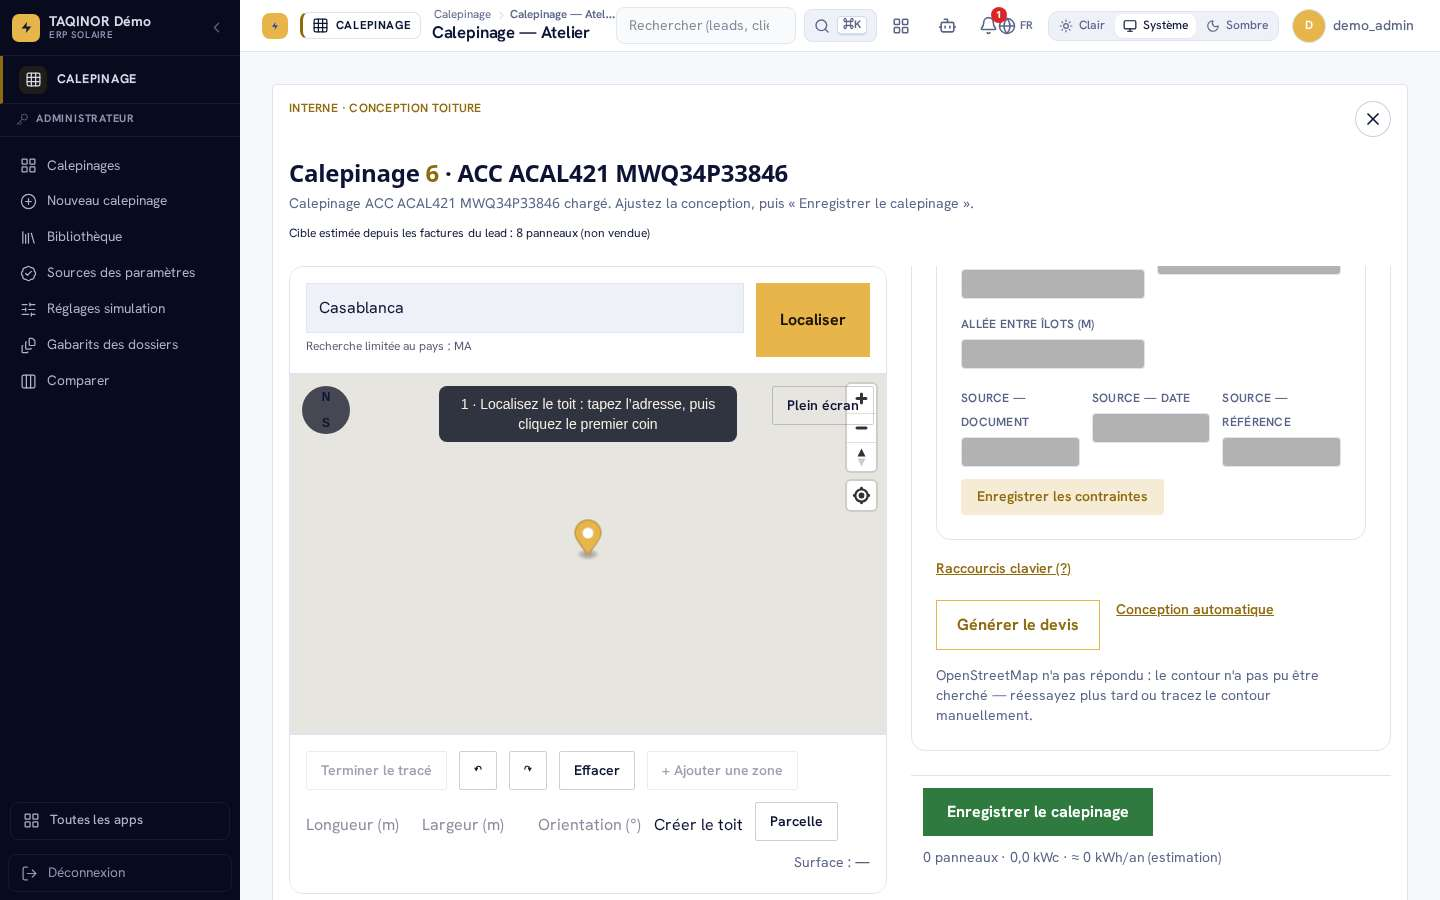
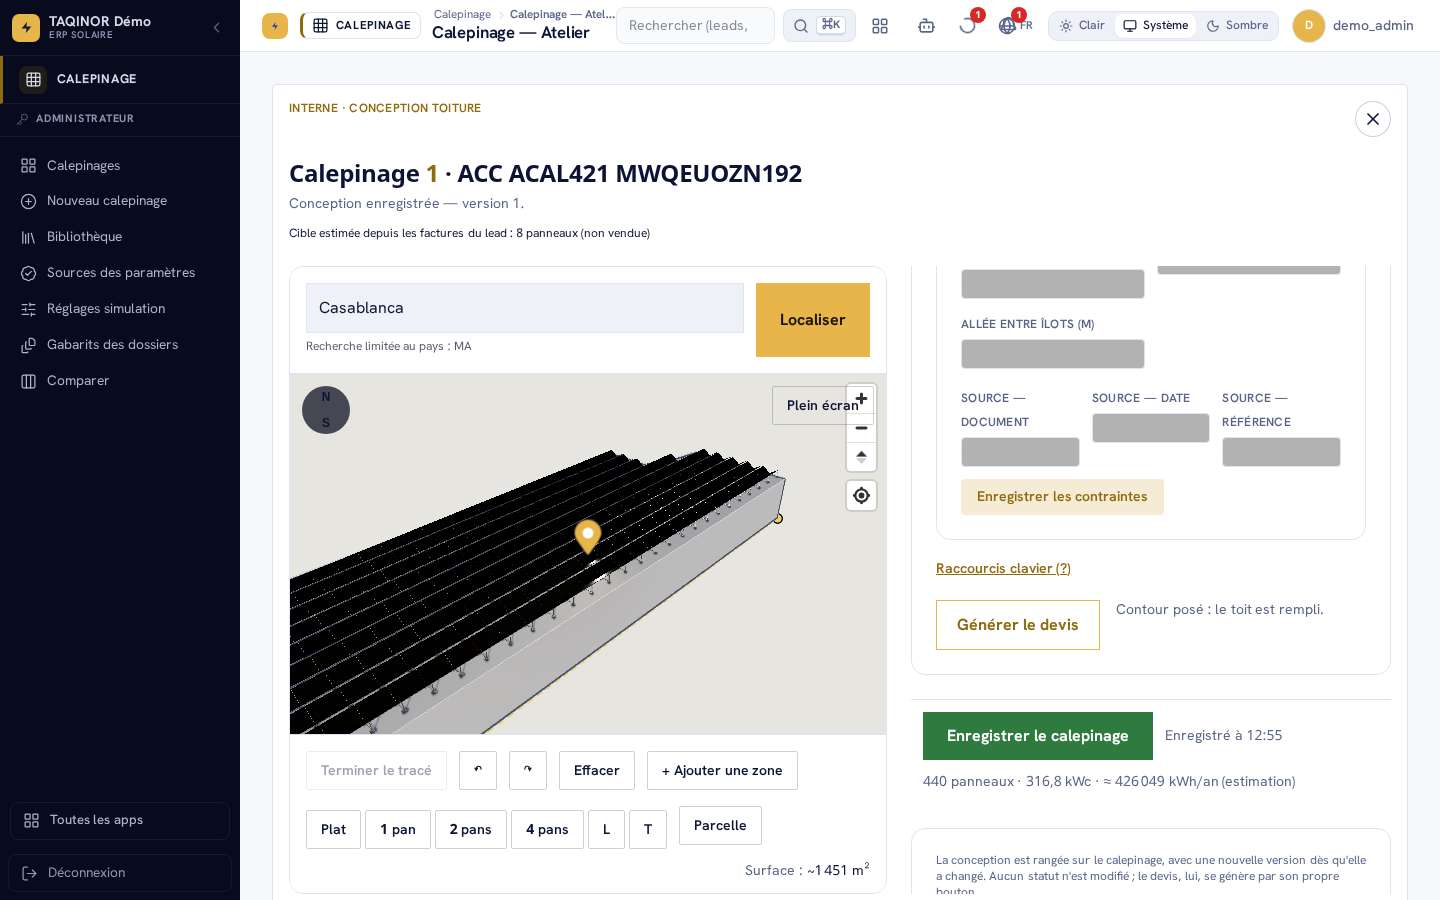
ACAL421 cochée : enregistrement PASS 2026-11-21-51c1fdb5e (run 44905821481, tâche de fond D-ACAL-35)

diff --git a/docs/plans/PLAN_AUDIT_CALEPINAGE.md b/docs/plans/PLAN_AUDIT_CALEPINAGE.md
@@ -755,7 +755,7 @@ Contre-visite de clôture n° 2 du groupe ACAL (dossier `docs/audits/2026-11-01-
 
 - [x] ACAL420 — **Faire dire le prochain geste sur la carte elle-même avant tout tracé : une carte d'aide flottante « Localisez le toit » puis « Cliquez les coins » ; fini quand un atelier vierge n'est plus muet** : Constat : C-ACAL-L5-420 (C18, S3, STATIQUE (lecture du 20/11 sur e9b08b57e)) — l'atelier vierge ne parle que par une ligne de statut (`rp9-status`, `text-sm text-lune-faint`, `BuilderDom.jsx`) placée SOUS la carte et la barre d'outils (« Cherchez votre adresse, puis cliquez les coins de votre toit », `roof-tool-pro11.ts::setStatus`, appels l.1787 et l.2485) ; les sections de réglage restent masquées tant que le contour n'est pas fermé ; référence : OpenSolar (Auto Design guidé en 4 étapes), d'après r1/c2 ; Priorité : P2. Given un atelier sans sommet posé When il s'ouvre Then une carte posée sur la carte dit « 1 · Localisez le toit : tapez l'adresse, puis cliquez le premier coin » ; après un ou deux sommets « 2 · Un clic par coin, double-clic pour fermer le contour » ; contour fermé : la carte disparaît (le statut prend le relais) ; elle ne bloque aucun clic (`pointer-events: none`) et reste `aria-hidden` (le statut `aria-live` est le canal des lecteurs d'écran). Persistance : n/a — état d'écran. Emplacement : fichier NEUF `apps/web/src/scripts/roofPro11/etatVide.ts` (div dans le conteneur de la carte, même patron que `#rp9-marquee`) mis à jour depuis `roof-tool-pro11.ts::setStatus` (≤ 6 l. nettes dans ce fichier de 4 354 l.). Code net : ≤ 50 l. neuves. Appelants : `setStatus` ← environ 25 sites de `roof-tool-pro11.ts` (grep) ; modes : aperçu public et atelier ERP, jamais capture publique (`captureBoot.ts` a son propre bandeau) ni visionneuse. Assertions existantes : `apps/web/tests/userJourneyPro11.test.ts` (textes de `rp9-status`) reste vert, l'id `rp9-etat-vide` n'est dans aucune liste d'ids figée (l.103-110). Jumeaux : les messages de `setStatus` restent la voix des lecteurs d'écran ; aucune autre carte d'aide dans le module. Autres modes : la capture publique (`captureBoot.ts`) et la visionneuse client (`viewerFullBoot.ts`) démarrent sans ce module et ne reçoivent rien. Listes figées : aucune. Contrat partagé : n/a — apps/web seul. Test rouge d'abord : `apps/web/tests/userJourneyPro11.test.ts` (nouveau cas « l'état vide dit le prochain geste, puis s'efface à la fermeture du contour ») ; mutant : ne pas rafraîchir à la pose d'un sommet ⇒ échec. Preuve en direct : atelier vierge : carte « Localisez le toit » ; un clic : « Un clic par coin ». Hors périmètre : états vides propres à chaque étape du parcours guidé (lot ACAL392-409), capture publique. (gen manuel e9b08b5) Budget C20 (roof-tool-pro11.ts, fichier mur) : lignes nettes attendues ≤ 50 — repris du texte « ≤ 50 l. neuves ». Files: `apps/web/src/scripts/roofPro11/etatVide.ts`, `apps/web/src/scripts/roof-tool-pro11.ts`, `apps/web/tests/userJourneyPro11.test.ts` (ROUTINE) (@after: ACAL383) (@lane: calepinage/atelier-web) (@model: sonnet)
 
-- [BLOCKED: code livré le 2026-11-21 sur dev-all-acal-l5 ; preuve en direct due à ACAL490 (acceptation de la campagne)] ACAL421 — **Ajouter « Conception automatique » à l'atelier d'un calepinage lié à un lead épinglé : un clic pose le contour du bâtiment (OSM) et l'optimiseur remplit le toit ; fini quand le toit est rempli sans rien tracer** : Constat : C-ACAL-L5-421 (C4, S3, STATIQUE (lecture du 20/11 sur e9b08b57e)) — la route d'emprise est servie (`backend/django_core/apps/crm/roof_views.py::lead_roof_footprint`, `GET crm/leads/<id>/roof-footprint/`, client `frontend/src/api/crmApi.js::getRoofFootprint`) mais `frontend/src/features/calepinage/atelier/useAtelierBoot.js` ne l'appelle que dans le boot du mode lead (l.190), pas dans `bootCalepinage` ; et le builder sait poser un contour géoréférencé en pan neuf qui re-pave (`apps/web/src/scripts/roof-tool-pro11.ts` → `ajouterPanDepuisContour`, ACAL71, seul appelant `PlanImporteCalage.jsx`) : aucun geste ne relie les deux ; référence : Huawei SmartDesign (pose automatique sans visite) et OpenSolar Auto Design (4 étapes), d'après r1/c2 ; Priorité : P2. Given un calepinage lié à un lead épinglé, sans pan tracé, droits d'écriture When « Conception automatique » Then l'emprise est lue, le contour (conversion `{lat, lng}` → `[lng, lat]`, différente de celle du boot lead) devient le pan, le pan vide de départ n'est pas gardé et l'optimiseur pose le maximum ; sans épingle, sans emprise ou en échec réseau : le message du serveur (`message`) s'affiche, aucun pan créé ; un pan déjà tracé n'est jamais écrasé (bouton absent) ; rien n'est enregistré avant « Enregistrer le calepinage ». Persistance : n/a — rien tant que l'utilisateur n'enregistre pas ; le pan sort ensuite par `serializeLayout`. Emplacement : fichier NEUF `frontend/src/features/calepinage/atelier/conceptionAuto.js` (lecture de l'emprise, conversion, appel) ; bouton monté dans `frontend/src/features/calepinage/AtelierPanneaux.jsx::AtelierPanneaux` (ATTEIGNABLE : composant monté dans l'écran parent déjà routé ; lead lu dans `contexte.calepinage.lead`) ; dans `roof-tool-pro11.ts`, `ajouterPanDepuisContour` occupe le pan actif quand il est vide (≤ 8 l.). Code net : ≤ 60 l. neuves en ERP. Appelants : `getRoofFootprint` ← `useAtelierBoot.js` (mode lead) seul ; modes : atelier ERP calepinage, absent en lecture seule et en mode lead. Assertions existantes : `apps/web/tests/estimatorRuntimePro10Pro11.test.ts` (« runtime ACAL71 » : le carré devient area-2 quand le pan actif est fermé) reste vert ; `frontend/src/features/calepinage/AtelierPanneaux.test.jsx` reste vert. Jumeaux : le boot du mode lead (`useAtelierBoot.js` l.182-232) fait déjà ce geste au démarrage avec des paires `[lat, lng]` ; la conversion neuve est testée à part. Autres modes : l'aperçu public et la capture n'ont pas ce bouton ; `ajouterPanDepuisContour` n'a d'autre appelant que `PlanImporteCalage.jsx` (ERP), son comportement sur pan fermé est inchangé. Listes figées : aucune. Contrat partagé : `backend/django_core/apps/calepinage/contract_samples/calepinage_empreinte_osm.json` (CALX106), lu par `backend/django_core/apps/calepinage/tests/test_calx106_contrat_empreinte_osm.py` et importé par le test frontend. Test rouge d'abord : `frontend/src/features/calepinage/AtelierPanneaux.test.jsx` (nouveau cas « conception automatique : emprise convertie en [lng, lat], pan vide remplacé, refus nommé sans emprise ») ; mutant : ne pas convertir lat/lng ⇒ sommets inversés ⇒ échec. Preuve en direct : calepinage d'un lead épinglé, « Conception automatique » : contour du bâtiment et toit rempli. Hors périmètre : chaînes, simulation (ACAL398), vision IA sur l'imagerie (GATED D-CALX-PAYANT), calepinage sans lead. Mur C20 : `apps/web/src/scripts/roof-tool-pro11.ts` lignes nettes attendues ≤ 4. (gen manuel e9b08b5) Files: `frontend/src/features/calepinage/atelier/conceptionAuto.js`, `frontend/src/features/calepinage/AtelierPanneaux.jsx`, `frontend/src/features/calepinage/AtelierPanneaux.test.jsx`, `apps/web/src/scripts/roof-tool-pro11.ts`, `apps/web/tests/estimatorRuntimePro10Pro11.test.ts` (ROUTINE) (@after: ACAL415) (@lane: calepinage/atelier-web) (@model: sonnet)
+- [x] ACAL421 — **Ajouter « Conception automatique » à l'atelier d'un calepinage lié à un lead épinglé : un clic pose le contour du bâtiment (OSM) et l'optimiseur remplit le toit ; fini quand le toit est rempli sans rien tracer** : Constat : C-ACAL-L5-421 (C4, S3, STATIQUE (lecture du 20/11 sur e9b08b57e)) — la route d'emprise est servie (`backend/django_core/apps/crm/roof_views.py::lead_roof_footprint`, `GET crm/leads/<id>/roof-footprint/`, client `frontend/src/api/crmApi.js::getRoofFootprint`) mais `frontend/src/features/calepinage/atelier/useAtelierBoot.js` ne l'appelle que dans le boot du mode lead (l.190), pas dans `bootCalepinage` ; et le builder sait poser un contour géoréférencé en pan neuf qui re-pave (`apps/web/src/scripts/roof-tool-pro11.ts` → `ajouterPanDepuisContour`, ACAL71, seul appelant `PlanImporteCalage.jsx`) : aucun geste ne relie les deux ; référence : Huawei SmartDesign (pose automatique sans visite) et OpenSolar Auto Design (4 étapes), d'après r1/c2 ; Priorité : P2. Given un calepinage lié à un lead épinglé, sans pan tracé, droits d'écriture When « Conception automatique » Then l'emprise est lue, le contour (conversion `{lat, lng}` → `[lng, lat]`, différente de celle du boot lead) devient le pan, le pan vide de départ n'est pas gardé et l'optimiseur pose le maximum ; sans épingle, sans emprise ou en échec réseau : le message du serveur (`message`) s'affiche, aucun pan créé ; un pan déjà tracé n'est jamais écrasé (bouton absent) ; rien n'est enregistré avant « Enregistrer le calepinage ». Persistance : n/a — rien tant que l'utilisateur n'enregistre pas ; le pan sort ensuite par `serializeLayout`. Emplacement : fichier NEUF `frontend/src/features/calepinage/atelier/conceptionAuto.js` (lecture de l'emprise, conversion, appel) ; bouton monté dans `frontend/src/features/calepinage/AtelierPanneaux.jsx::AtelierPanneaux` (ATTEIGNABLE : composant monté dans l'écran parent déjà routé ; lead lu dans `contexte.calepinage.lead`) ; dans `roof-tool-pro11.ts`, `ajouterPanDepuisContour` occupe le pan actif quand il est vide (≤ 8 l.). Code net : ≤ 60 l. neuves en ERP. Appelants : `getRoofFootprint` ← `useAtelierBoot.js` (mode lead) seul ; modes : atelier ERP calepinage, absent en lecture seule et en mode lead. Assertions existantes : `apps/web/tests/estimatorRuntimePro10Pro11.test.ts` (« runtime ACAL71 » : le carré devient area-2 quand le pan actif est fermé) reste vert ; `frontend/src/features/calepinage/AtelierPanneaux.test.jsx` reste vert. Jumeaux : le boot du mode lead (`useAtelierBoot.js` l.182-232) fait déjà ce geste au démarrage avec des paires `[lat, lng]` ; la conversion neuve est testée à part. Autres modes : l'aperçu public et la capture n'ont pas ce bouton ; `ajouterPanDepuisContour` n'a d'autre appelant que `PlanImporteCalage.jsx` (ERP), son comportement sur pan fermé est inchangé. Listes figées : aucune. Contrat partagé : `backend/django_core/apps/calepinage/contract_samples/calepinage_empreinte_osm.json` (CALX106), lu par `backend/django_core/apps/calepinage/tests/test_calx106_contrat_empreinte_osm.py` et importé par le test frontend. Test rouge d'abord : `frontend/src/features/calepinage/AtelierPanneaux.test.jsx` (nouveau cas « conception automatique : emprise convertie en [lng, lat], pan vide remplacé, refus nommé sans emprise ») ; mutant : ne pas convertir lat/lng ⇒ sommets inversés ⇒ échec. Preuve en direct : calepinage d'un lead épinglé, « Conception automatique » : contour du bâtiment et toit rempli. Hors périmètre : chaînes, simulation (ACAL398), vision IA sur l'imagerie (GATED D-CALX-PAYANT), calepinage sans lead. Mur C20 : `apps/web/src/scripts/roof-tool-pro11.ts` lignes nettes attendues ≤ 4. (gen manuel e9b08b5) Files: `frontend/src/features/calepinage/atelier/conceptionAuto.js`, `frontend/src/features/calepinage/AtelierPanneaux.jsx`, `frontend/src/features/calepinage/AtelierPanneaux.test.jsx`, `apps/web/src/scripts/roof-tool-pro11.ts`, `apps/web/tests/estimatorRuntimePro10Pro11.test.ts` (ROUTINE) (@after: ACAL415) (@lane: calepinage/atelier-web) (@model: sonnet)
 
 - [x] ACAL422 — **Permettre de créer le contour du toit en saisissant longueur × largeur (et une orientation), sans tracer sur la carte ; fini quand « Créer le toit » pose un rectangle aux cotes saisies, fermé comme un tracé** : Constat : C-ACAL-L5-422 (C2, S3, STATIQUE (lecture du 20/11 sur e9b08b57e)) — `apps/web/src/scripts/roofPro11/zones.ts::redimensionnerPanActif` (CALX97) repose un pan RECTANGULAIRE déjà tracé aux cotes saisies, mais aucun geste ne CRÉE un contour depuis des cotes : sans clic sur la carte il n'y a pas de pan (`roof-tool-pro11.ts::close` exige ≥ 3 sommets posés) ; l'imagerie satellite étant inégale au Maroc, tracer au doigt sur une image floue est le point faible ; référence : r1/c2 recommande « dimensions saisies + croquis », Reonic accepte un plan d'architecte, d'après r1/c2 ; Priorité : P2. Given la carte centrée sur le toit et un pan actif vide When on saisit Longueur 12, Largeur 8, Orientation 0 puis « Créer le toit » Then un rectangle de 12 × 8 m, centré sur le centre de la carte, côté long vers l'est-ouest tourné de l'orientation saisie, devient le contour fermé par le chemin du double-clic (`close`), le pavage se calcule ; longueur ou largeur vide, non numérique ou ≤ 0 : refus nommant le champ, rien créé ; aucun champ n'est borné ni arrondi (`step="any"`, `noValidate`). Persistance : le pan sort par `serializeLayout` comme un tracé, aucune clé neuve ; enregistrer puis rouvrir redonne le même contour. Emplacement : fichier NEUF `apps/web/src/scripts/roofPro11/toitParCotes.ts` (rectangle depuis `snap.ts::pointDepuisCap` ; 3 champs et un bouton créés près de `rp9-add-area`, visibles tant qu'aucun contour n'est fermé) ; point d'appel dans `roof-tool-pro11.ts` (pose `vertices` puis `close`, ≤ 16 l. nettes dans ce fichier de 4 354 l.). Code net : ≤ 80 l. neuves. Appelants : `redimensionnerPanActif` ← champs dynamiques de `zones.ts::createZones` seulement ; modes : aperçu et atelier ERP. Assertions existantes : `apps/web/src/scripts/roofPro11/snap.test.ts` et `zones.test.ts` (cotes d'un pan, CALX97) restent verts. Jumeaux : « Terminer le tracé » et le double-clic fermeture passent par `close` : même chemin ; `redimensionnerRectangle` (`snap.ts`) reste le seul calcul de cotes d'un pan existant. Autres modes : la capture publique (`captureBoot.ts`) et la visionneuse client (`viewerFullBoot.ts`) démarrent sans ce module et ne reçoivent rien. Listes figées : aucune. Contrat partagé : n/a — aucune clé de document. Test rouge d'abord : `apps/web/src/scripts/roofPro11/snap.test.ts` (nouveau cas « rectangle depuis cotes : aire 96 m², 4 angles droits, orientation appliquée ») ; mutant : intervertir longueur et largeur ⇒ échec. Preuve en direct : atelier vierge, saisir 12 × 8, « Créer le toit » : rectangle fermé et pavé. Hors périmètre : plan en L ou T (ACAL410 découpe un contour existant), lecture de cotes sur photo. (gen manuel e9b08b5) Budget C20 (roof-tool-pro11.ts, fichier mur) : lignes nettes attendues ≤ 80 — repris du texte « ≤ 80 l. neuves ». Files: `apps/web/src/scripts/roofPro11/toitParCotes.ts`, `apps/web/src/scripts/roof-tool-pro11.ts`, `apps/web/src/scripts/roofPro11/snap.test.ts` (ROUTINE) (@lane: calepinage/atelier-web) (@model: sonnet)
 
@@ -1093,3 +1093,4 @@ Contre-visite de clôture n° 2 du groupe ACAL (dossier `docs/audits/2026-11-01-
 - 2026-11-21 ACAL466 — `GET calepinages/<pk>/pente-terrain/?surface=<id>` : pente et azimut de pente du relief sous un champ au sol, lus sur Copernicus GLO-30 (tuiles COG, requêtes `Range`, `zlib` + `numpy`, ajustement `lidar_ign._ajuster_plan` réutilisé) par `services/terrain_glo30.py` ; relief illisible ⇒ `pente_deg: null` + motif, jamais d'altitude de repli ; contrat `calepinage_pente_terrain.json` (lecture réelle du 21/11) ; bouton « Lire la pente du relief » + « Utiliser cette pente » dans `ModeTerrain.jsx`. Décodeur vérifié sur la vraie tuile N33 W008 (les 9 altitudes du plan retrouvées). Preuve en direct (PA2.5) due à ACAL490.
 - 2026-11-21 ACAL466 (complément) — un champ enregistré par l'écran Terrain n'a que `contourM` (mètres, sans géoréférence) : `terrain_glo30.contour_m_vers_lnglat` le centre sur `roof_layout.pin` (projection équirectangulaire unique `core.calepinage.geo`, valable à l'échelle d'un champ), la réponse porte `ancrage` (`contour_trace` | `epingle_du_site`) et l'écran le dit ; sans épingle ni contour, motif nommant la donnée manquante. NOUVELLE DÉPENDANCE EXTERNE (gratuite, sans compte) : le service fait des lectures HTTP sortantes vers le seau public AWS Open Data de Copernicus GLO-30 (`copernicus-dem-30m.s3.amazonaws.com`) ; aucune clé, aucun secret.
 - 2026-11-21 ACAL491 — rejeu runner d'`acal10` sans l'étape ACAL421 (`--grep-invert`, run 44900820457) : enregistrement PASS `2026-11-21-c6b1010de` (14 étapes) ; ACAL401, 402, 411, 418, 424, 425, 431, 433, 439, 440, 459, 460, 472, 482 passées de « code livré » à cochées ; ACAL421 reste BLOQUÉE (traces FAIL `7d558ea59`, `89df2145c`) jusqu'à sa reprise en tâche de fond (D-ACAL-35) ; preuves visuelles d'ACAL427-479 dues à ACAL490.
+- 2026-11-21 ACAL421 — reprise en tâche de fond (D-ACAL-35) prouvée sur runner : run 44905821481, enregistrement PASS `2026-11-21-51c1fdb5e` (tâche Celery réussie, contour OSM posé) ; défaut trouvé au rejeu 44905036243 corrigé : le chemin OSM fermé répétait son premier nœud et l'atelier refusait le contour (« ce contour se croise »).

diff --git a/docs/audits/acceptation/ACAL/2026-11-21-51c1fdb5e.md b/docs/audits/acceptation/ACAL/2026-11-21-51c1fdb5e.md
@@ -1,0 +1,22 @@
+---
+sha: 51c1fdb5e9ddad64e6d5e97a1d162c2dab991d4f
+date: 2026-11-21
+groupe: ACAL
+couvre: [ACAL421]
+couvre_avec_ecart: []
+verdict: PASS
+etapes:
+  - id: PA2.5-ACAL421-conception-auto
+    tache: [ACAL421]
+    verdict: PASS
+---
+
+# Acceptation ACAL — 2026-11-21 (51c1fdb5e)
+
+Produit par `frontend/e2e/acceptation/_enregistrement.js` (AMET90) ; le `.results.json` frère fait foi ;
+relu par `python scripts/check_acceptation.py`. Oracles = qa-explorer 1-10 (`_format.md`).
+
+| Étape | Tâches | Verdict | 1 | 2 | 3 | 4 | 5 | 6 | 7 | 8 | 9 | 10 | Trace |
+|---|---|---|---|---|---|---|---|---|---|---|---|---|---|
+| PA2.5-ACAL421-conception-auto | ACAL421 | PASS | PASS | PASS | PASS | PASS | NA | NA | NA | PASS | NA | NA | docs/qa-explorer/captures/2026-11-21/ACCEPTATION-ACAL-PA2.5-ACAL421-conception-auto.jpg |
+
